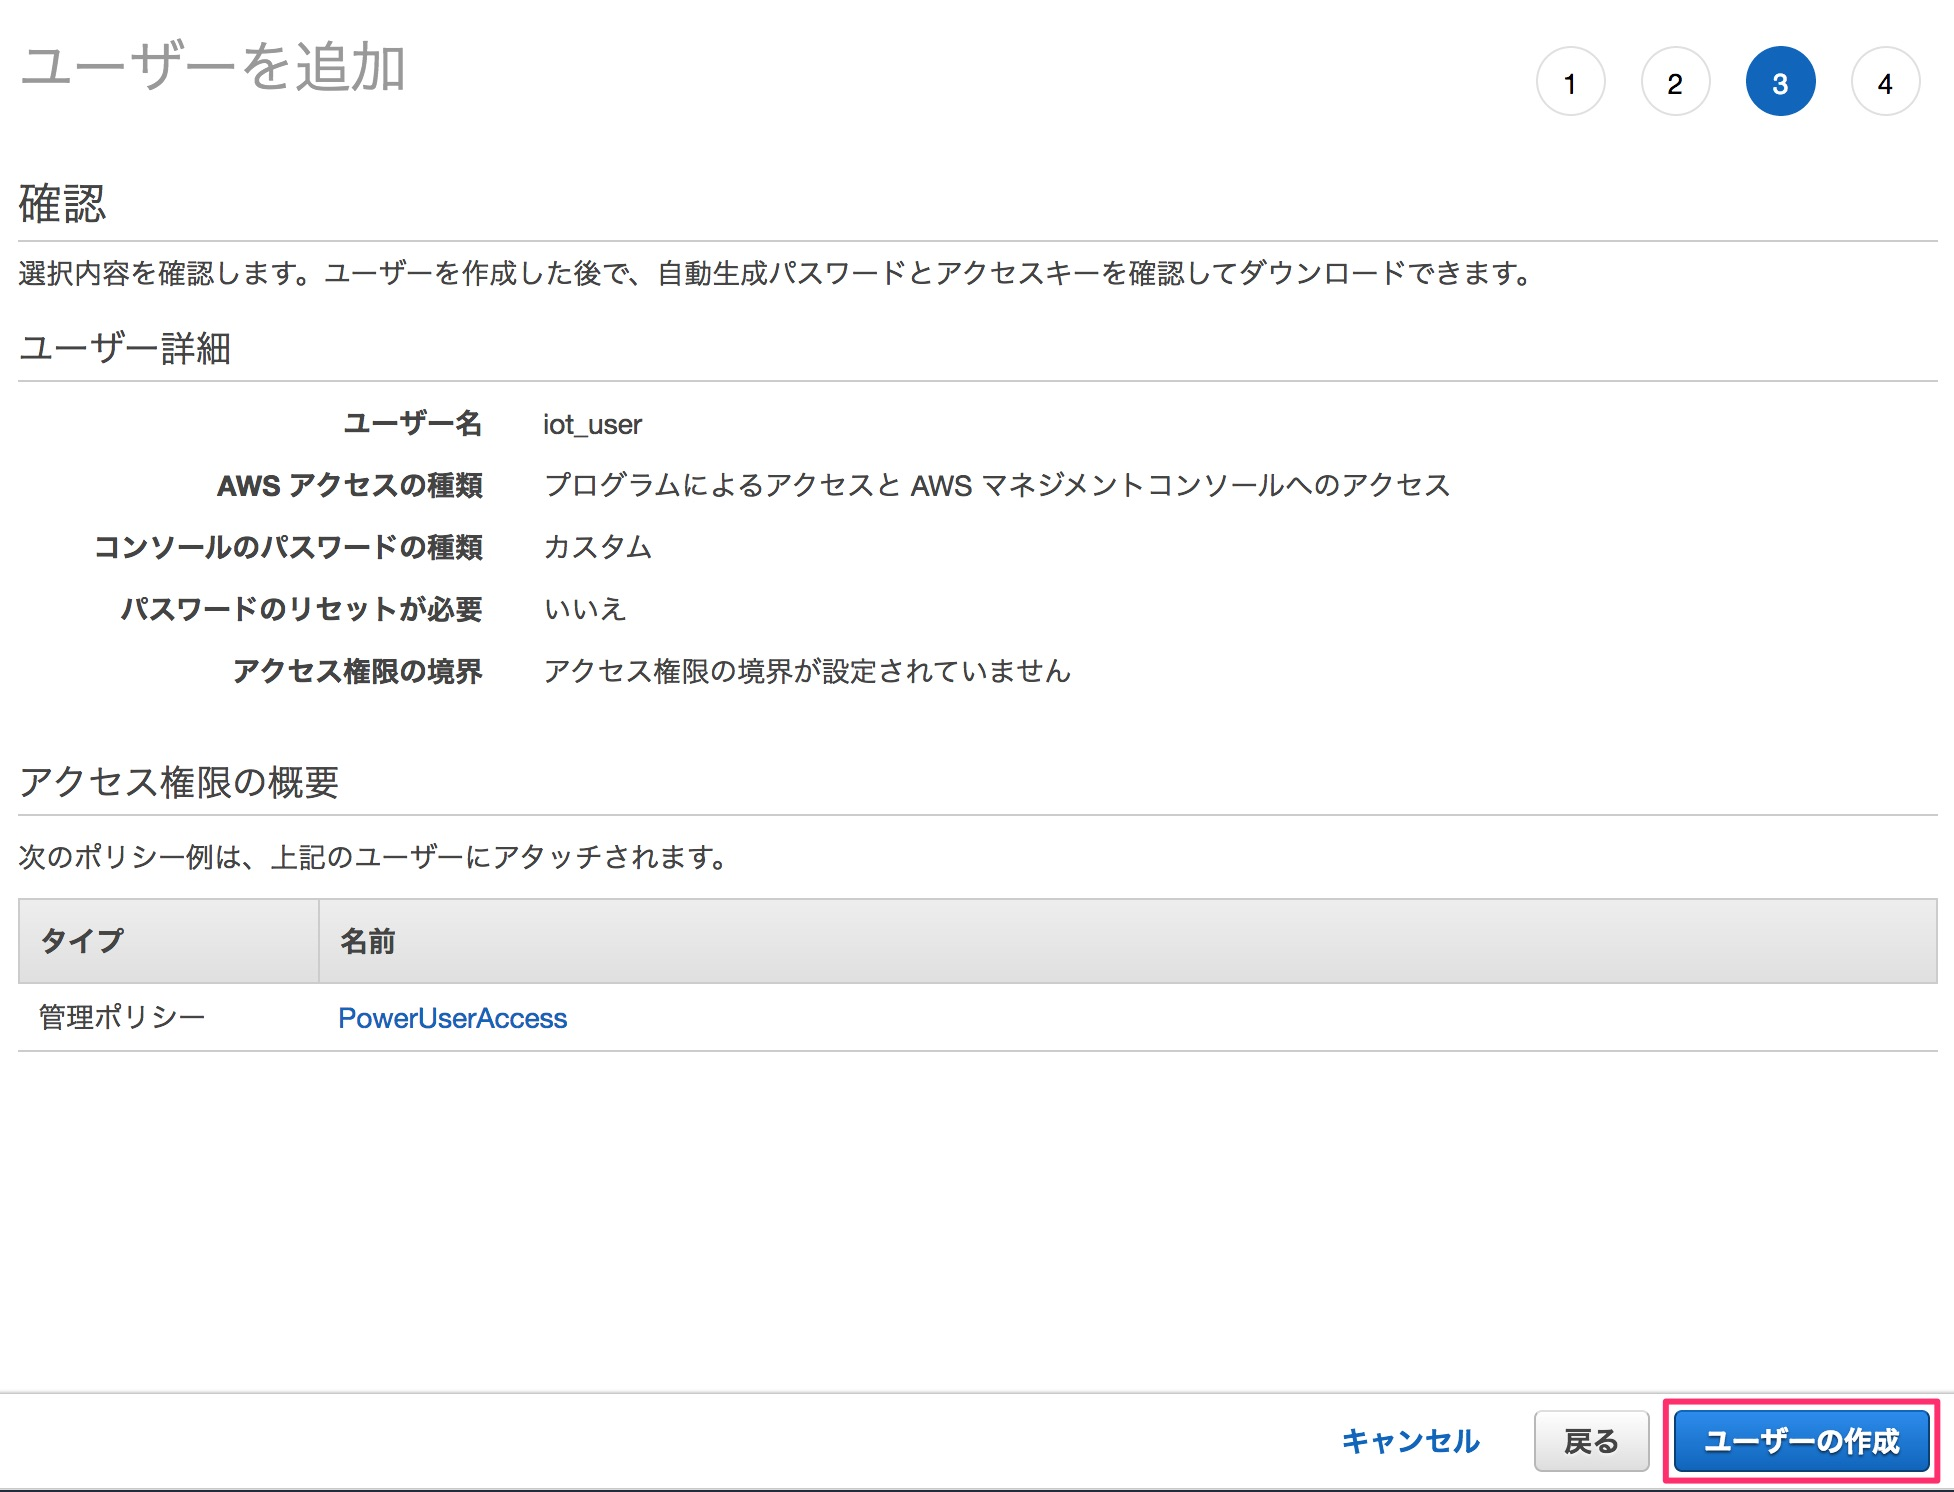
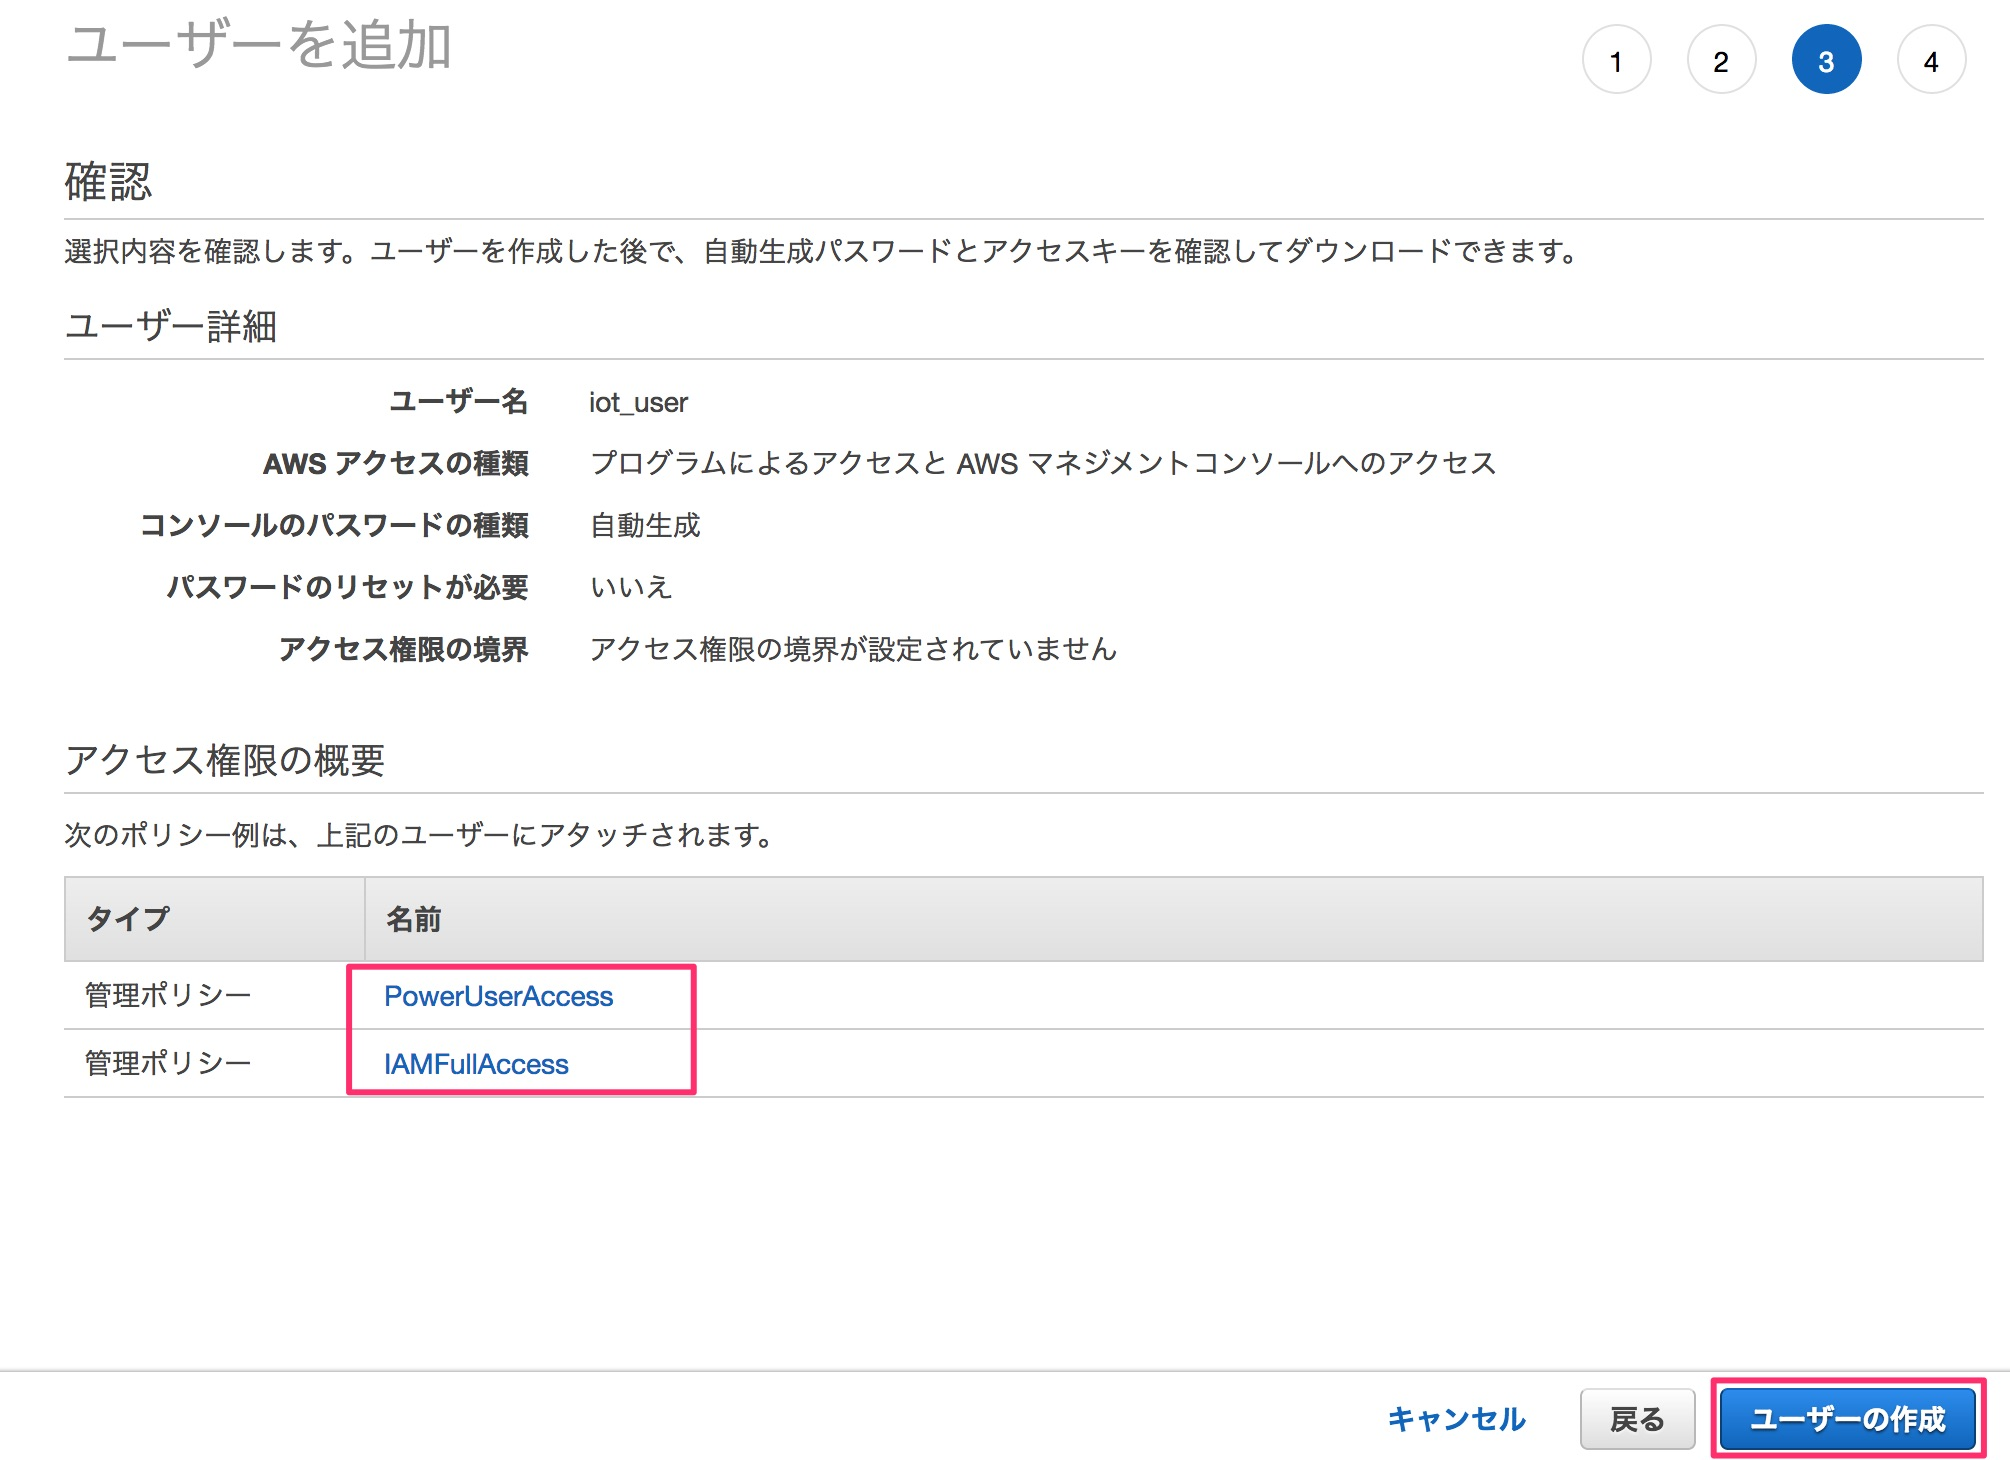
Fix iam and select tokyo region

diff --git a/docs/iam.md b/docs/iam.md
@@ -57,21 +57,17 @@ IAMサービスページに移動します。
 
 ![/images/iam/iam2.jpg](/images/iam/iam2.jpg)
 
----
-
 「ユーザ」をクリックします。
 
 ---
 
 ![/images/iam/iam3.jpg](/images/iam/iam3.jpg)
 
----
-
 「ユーザの追加」をクリックします。
 
-![/images/iam/iam4.jpg](/images/iam/iam4.jpg)
-
 ---
+
+![/images/iam/iam4.jpg](/images/iam/iam4.jpg)
 
 1. ① 新しくログインに使用するユーザ名を入力します。ここでは `iot_user` とします
 2. コマンドラインなどでこのアカウントを使用する場合、②にチェックします
@@ -80,21 +76,27 @@ IAMサービスページに移動します。
 5. パスワードのリセットが必要のチェックは外す
 6. 「次のステップ:アクセス権限」をクリック
 
-![/images/iam/iam5.jpg](/images/iam/iam5.jpg)
-
 ---
 
 作成するユーザに権限を付与します。  
 今回は利便性のために管理者向けの機能を除いたすべてのAWSサービスが利用できるPowerUserAccessを付与します。
+またあとでロール作成のためIAMFullAccessも付与します。
+
+![/images/iam/iam5.jpg](/images/iam/iam5.jpg)
 
 1. ① 「既存のポリシーを直接アタッチ」を選択
 2. ② 「PowerUserAccess」で検索
 3. ③ 「PowerUserAccess」にチェックする
-4. 「次のステップ:確認」ボタンをクリック
+
+![/images/iam/iam5_2.jpg](/images/iam/iam5_2.jpg)
+
+1. ② 「IAMFullAccess」で検索
+2. ③ 「IAMFullAccess」にチェックする
+3. 「次のステップ:確認」ボタンをクリック
 
 ![/images/iam/iam6.jpg](/images/iam/iam6.jpg)
 
-ユーザの作成をクリックします。
+`PowerUserAccess`と`IAMFullAccess`がついていることを確認して「ユーザの作成」をクリックします。
 
 ---
 

diff --git a/docs/policy.md b/docs/policy.md
@@ -4,6 +4,10 @@
 - 検索バーにiot coreと入力して選択
 ![/images/handson/iot_core.jpg](/images/handson/iot_core.jpg)
 
+## メニューバーから東京リージョンを選択
+
+![/images/handson/iot_core2.jpg](/images/handson/iot_core2.jpg)
+
 ## AWS IoTの管理画面でポリシーを作成する
 - サイドバーから安全性→ポリシーを選択し、「作成」をクリック
 ![/images/handson/policy1.jpg](/images/handson/policy1.jpg)
